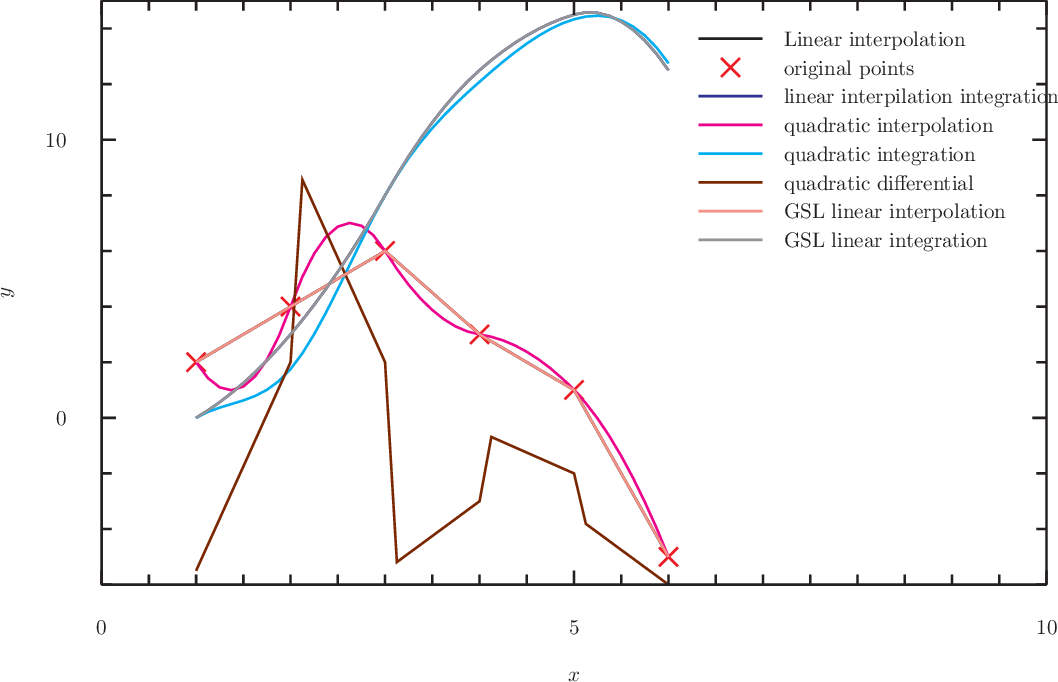
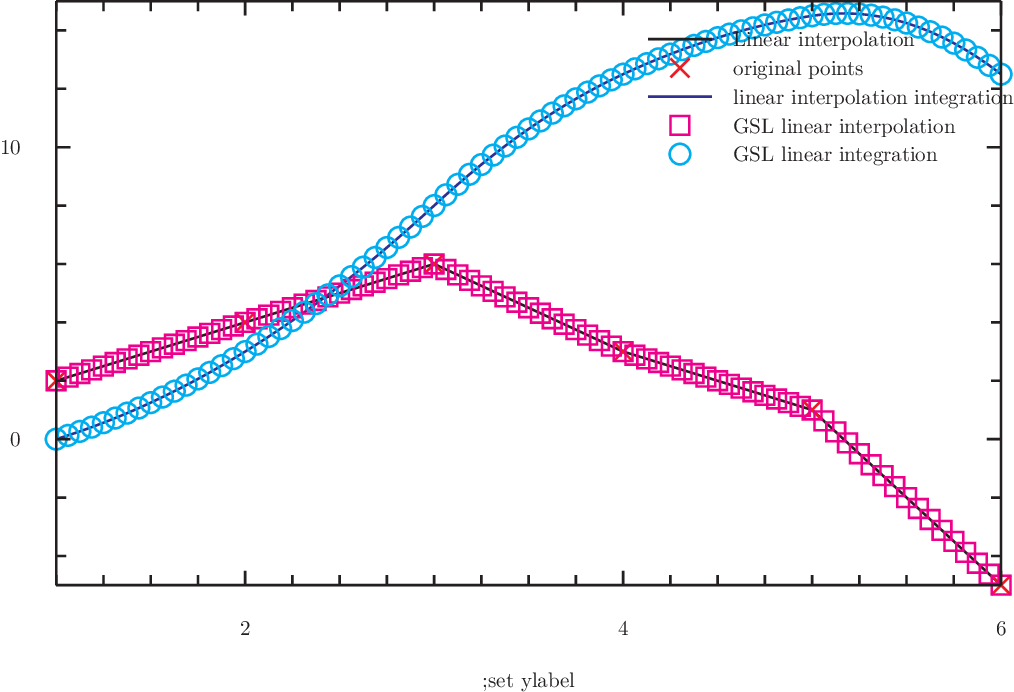
færdig

diff --git a/Homework/Interpolation/cubic.c b/Homework/Interpolation/cubic.c
@@ -1,5 +1,6 @@
 #include<assert.h>
 #include<gsl/gsl_vector.h>
+#include<math.h>
 
 int binsearch(int n,gsl_vector *x,double Z);
 
@@ -56,9 +57,9 @@ cubic_spline* cubic_spline_alloc(gsl_vector *x, gsl_vector* y){
 	gsl_vector_set(B,0,3*gsl_vector_get(p,0));
 	gsl_vector_set(B, n-1,3*gsl_vector_get(p,n-2));
 
-	for (int i =1; i>n; i++)
+	for (int i =1; i<n; i++)
 		{
-		gsl_vector_set(D,i,gsl_vector_get(D,i)-gsl_vector_get(Q,i-1)/gsl_vector_get(D,i+1));
+		gsl_vector_set(D,i,gsl_vector_get(D,i)-gsl_vector_get(Q,i-1)/gsl_vector_get(D,i-1));
 		gsl_vector_set(B,i,gsl_vector_get(B,i)-gsl_vector_get(B,i-1)/gsl_vector_get(D,i-1));
 		}
 
@@ -68,9 +69,9 @@ cubic_spline* cubic_spline_alloc(gsl_vector *x, gsl_vector* y){
 		{
 		gsl_vector_set(s->b, i, (gsl_vector_get(B,i)-gsl_vector_get(Q,i)*gsl_vector_get(s->b,i+1))/gsl_vector_get(D,i));
 		}
-	for(int i =0; i>n-1; i++)
+	for(int i =0; i<n-1; i++)
 		{
-		gsl_vector_set(s->c, i, -2*gsl_vector_get(s->b,i)-gsl_vector_get(s->b,i+1)+3*gsl_vector_get(p,i)/gsl_vector_get(h,i));
+		gsl_vector_set(s->c, i, (-2*gsl_vector_get(s->b,i)-gsl_vector_get(s->b,i+1)+3*gsl_vector_get(p,i))/gsl_vector_get(h,i));
 		gsl_vector_set(s->d, i, (gsl_vector_get(s->b,i)+gsl_vector_get(s->b,i+1)-2*gsl_vector_get(p,i))/gsl_vector_get(h,i)/gsl_vector_get(h,i));
 		}
 
@@ -85,4 +86,47 @@ double cubic_spline_eval(cubic_spline*s, double z) {
 
 void cubic_spline_free(cubic_spline *s){
 	gsl_vector_free(s->x); gsl_vector_free(s->y); gsl_vector_free(s->b); gsl_vector_free(s->c); gsl_vector_free(s->d); free(s);
+}
+
+
+
+double cubic_diff(cubic_spline*s, double Z){
+	int maxinterval=binsearch(s->x->size,s->x,Z);
+	double xi=gsl_vector_get(s->x,maxinterval);
+	double ci=gsl_vector_get(s->c,maxinterval);
+	double bi=gsl_vector_get(s->b,maxinterval);
+	double di=gsl_vector_get(s->d,maxinterval);
+	double diff=bi+2*ci*(Z-xi)+3*di*(Z-xi)*(Z-xi);
+return diff;
+}
+
+
+
+
+
+double cubic_integ(cubic_spline *s, double Z){
+	int maxinterval=binsearch(s->x->size,s->x,Z);
+	double integral=0;
+
+	for(int i=0;(i+1)<=maxinterval;i++)
+		{
+		double xi=gsl_vector_get(s->x,i);
+		double xip1=gsl_vector_get(s->x,i+1);
+		double yi=gsl_vector_get(s->y,i);
+		double ai=yi;
+		double bi=gsl_vector_get(s->b,i);
+		double ci=gsl_vector_get(s->c,i);
+		double di=gsl_vector_get(s->d,i);
+		integral+=(double)ai*(xip1-xi)+(double)bi/2*pow((xip1-xi),2)+(double)ci/3*pow((xip1-xi),3)+(double)di/4*pow(xip1-xi,4);
+		}
+
+	double xi=gsl_vector_get(s->x,maxinterval);
+	double yi=gsl_vector_get(s->y,maxinterval);
+	double ai=yi;
+	double bi=gsl_vector_get(s->b,maxinterval);
+	double ci=gsl_vector_get(s->c,maxinterval);
+	double di=gsl_vector_get(s->d,maxinterval);
+	integral+=(double)ai*(Z-xi)+(double)bi/2*pow((Z-xi),2)+(double)ci/3*pow((Z-xi),3)+(double)di/4*pow(Z-xi,4);
+
+return integral;
 }

diff --git a/Homework/Interpolation/main.c b/Homework/Interpolation/main.c
@@ -20,8 +20,8 @@ double quad_diff(qspline *s,double z);
 
 
 double cubic_spline_eval(cubic_spline*s, double z);
-//double cubic_integ();
-//double cubic_diff();
+double cubic_integ(cubic_spline*s, double z);
+double cubic_diff(cubic_spline*s, double z);
 
 void quad_spline_free(qspline *s);
 void cubic_spline_free(cubic_spline *s);
@@ -76,8 +76,8 @@ int main(){
 	FILE * f=fopen("linterp.dat","w");
 	double z=gsl_vector_get(x,0);
 	qspline *s=qspline_alloc(x,y);
-//cubic_spline *ss=cubic_spline_alloc(x,y);
-	for((z=z);z<=N;z+=1./8){
+	cubic_spline *ss=cubic_spline_alloc(x,y);
+	for((z=z);z<=N;z+=1./16){
 		double yiz=linterp(x,y,z);
 		double integraltilz=linterp_integ(x,y,z);
 		double quadterp=qspline_eval(s,z);
@@ -85,8 +85,10 @@ int main(){
 		double quadterpdiffiz=quad_diff(s,z);
 		double interp_l=gsl_interp_eval(linear,gslx,gsly,z,NULL);
 		double integ_l=gsl_interp_eval_integ(linear,gslx,gsly,gslx[0],z,NULL);
-//double cubicterp=cubic_spline_eval(ss,z);
-		fprintf(f,"%g %g %g %g %g %g %g %g\n",z,yiz,integraltilz,quadterp,quadterptilz,quadterpdiffiz,interp_l,integ_l);
+		double cubicterp=cubic_spline_eval(ss,z);
+		double cubicterpdiffiz=cubic_diff(ss,z);
+		double cubicterptilz=cubic_integ(ss,z);
+		fprintf(f,"%g %g %g %g %g %g %g %g %g %g %g\n",z,yiz,integraltilz,quadterp,quadterptilz,quadterpdiffiz,interp_l,integ_l,cubicterp,cubicterpdiffiz,cubicterptilz);
 		}
 	fclose(f);
 

diff --git a/Homework/Interpolation/quad.c b/Homework/Interpolation/quad.c
@@ -36,4 +36,5 @@ double qspline_eval(qspline *s, double z){
 	return gsl_vector_get(s->y,index)+h*(gsl_vector_get(s->b,index)+h*gsl_vector_get(s->c,index));
 }
 void quad_spline_free(qspline *s){
-	free(s->x); free(s->y); free(s->b); free(s->x); free(s);}
+	gsl_vector_free(s->x); gsl_vector_free(s->y); gsl_vector_free(s->b); gsl_vector_free(s->x);
+}

diff --git a/Homework/Interpolation/quad_diff.c b/Homework/Interpolation/quad_diff.c
@@ -10,6 +10,6 @@ double quad_diff(qspline *s, double Z){
 	double xi=gsl_vector_get(s->x,maxinterval);
 	double ci=gsl_vector_get(s->c,maxinterval);
 	double bi=gsl_vector_get(s->b,maxinterval);
-	double diff=bi+ci*(Z-xi);
+	double diff=bi+2*ci*(Z-xi);
 return diff;
 }
